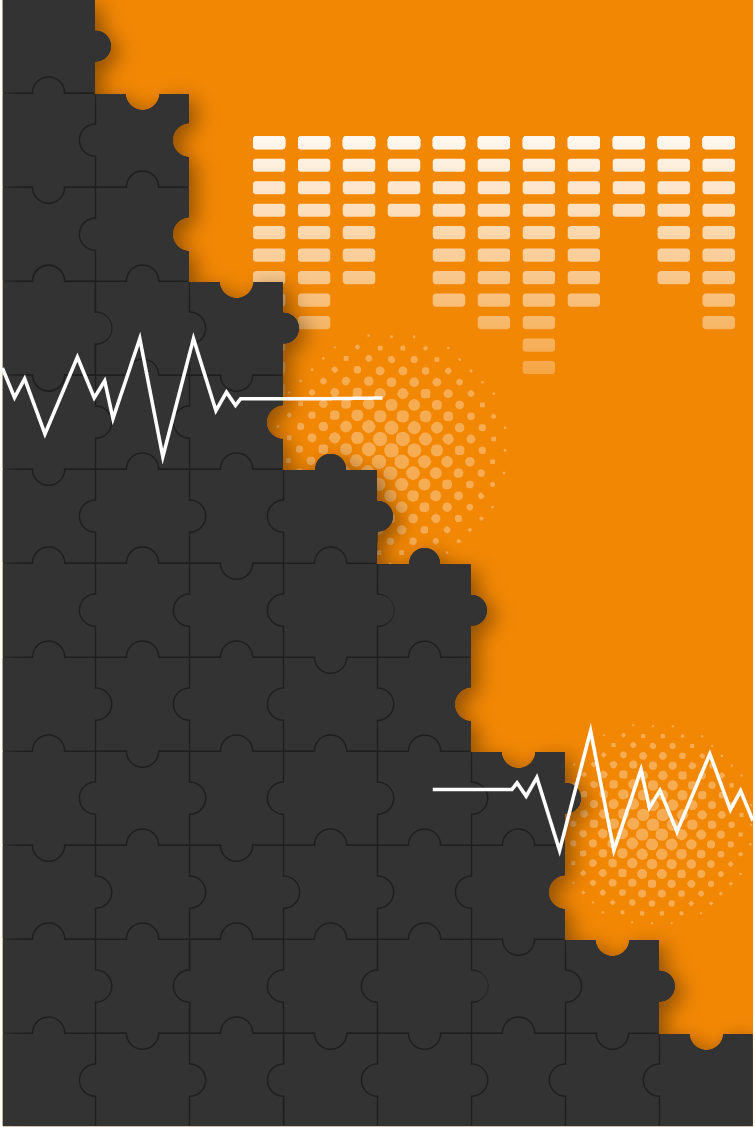
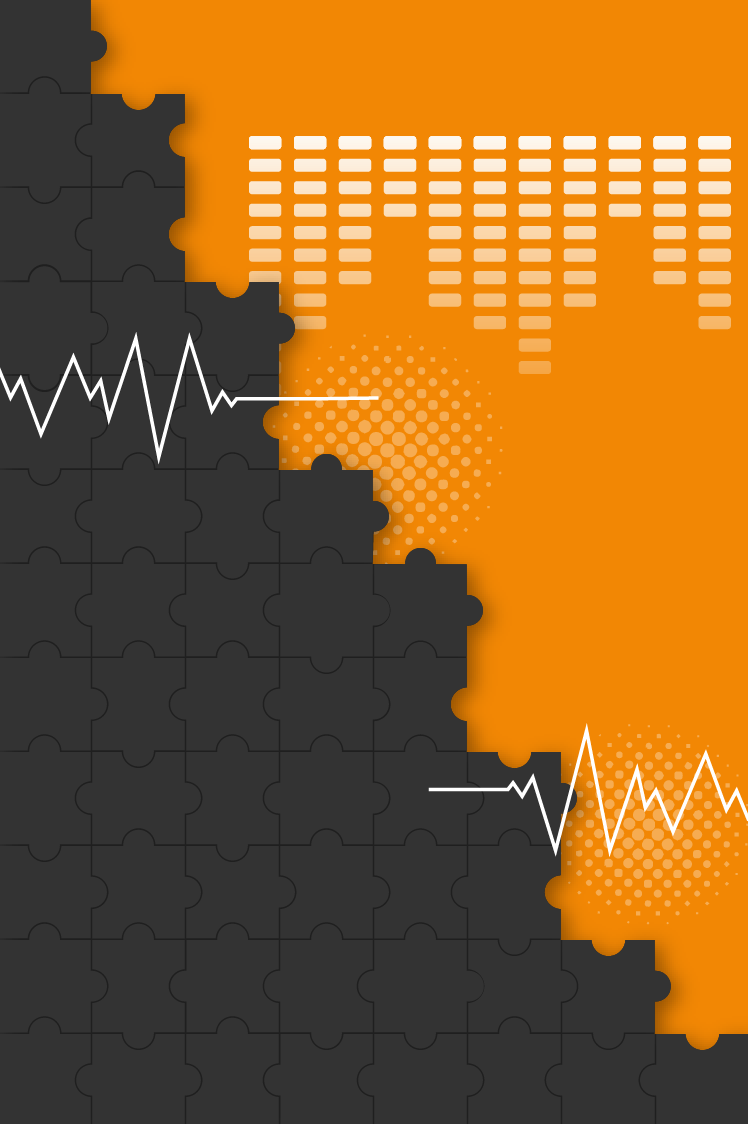
edit

diff --git a/css/style.css b/css/style.css
@@ -58,54 +58,54 @@
 }
 @keyframes glitch-before {
   0% {
-    -webkit-clip-path: polygon(0% 48.5132953734%, 100% 48.5132953734%, 100% 56.000898906%, 0% 56.000898906%);
-            clip-path: polygon(0% 48.5132953734%, 100% 48.5132953734%, 100% 56.000898906%, 0% 56.000898906%);
-    transform: translate(-2.6984226283%, 0.0966607877%);
+    -webkit-clip-path: polygon(0% 85.4700804428%, 100% 85.4700804428%, 100% 87.7288853122%, 0% 87.7288853122%);
+            clip-path: polygon(0% 85.4700804428%, 100% 85.4700804428%, 100% 87.7288853122%, 0% 87.7288853122%);
+    transform: translate(-7.4752772397%, 0.0172626599%);
   }
   2% {
-    -webkit-clip-path: polygon(0% 27.6698560717%, 100% 27.6698560717%, 100% 33.7634420985%, 0% 33.7634420985%);
-            clip-path: polygon(0% 27.6698560717%, 100% 27.6698560717%, 100% 33.7634420985%, 0% 33.7634420985%);
-    transform: translate(-6.7395385915%, -0.3907796595%);
+    -webkit-clip-path: polygon(0% 30.8379885253%, 100% 30.8379885253%, 100% 37.7432487405%, 0% 37.7432487405%);
+            clip-path: polygon(0% 30.8379885253%, 100% 30.8379885253%, 100% 37.7432487405%, 0% 37.7432487405%);
+    transform: translate(1.9486244871%, -0.1943745059%);
   }
   4% {
-    -webkit-clip-path: polygon(0% 59.3715511317%, 100% 59.3715511317%, 100% 67.302109355%, 0% 67.302109355%);
-            clip-path: polygon(0% 59.3715511317%, 100% 59.3715511317%, 100% 67.302109355%, 0% 67.302109355%);
-    transform: translate(1.4251708616%, -0.4163542658%);
+    -webkit-clip-path: polygon(0% 54.9104436772%, 100% 54.9104436772%, 100% 64.1120683191%, 0% 64.1120683191%);
+            clip-path: polygon(0% 54.9104436772%, 100% 54.9104436772%, 100% 64.1120683191%, 0% 64.1120683191%);
+    transform: translate(-4.9211001081%, -0.1985478899%);
   }
   6% {
-    -webkit-clip-path: polygon(0% 77.2568501324%, 100% 77.2568501324%, 100% 79.9818120081%, 0% 79.9818120081%);
-            clip-path: polygon(0% 77.2568501324%, 100% 77.2568501324%, 100% 79.9818120081%, 0% 79.9818120081%);
-    transform: translate(-3.9132620417%, 0.0983909263%);
+    -webkit-clip-path: polygon(0% 85.2446961339%, 100% 85.2446961339%, 100% 86.6951803275%, 0% 86.6951803275%);
+            clip-path: polygon(0% 85.2446961339%, 100% 85.2446961339%, 100% 86.6951803275%, 0% 86.6951803275%);
+    transform: translate(6.2770311444%, 0.0176607874%);
   }
   8% {
-    -webkit-clip-path: polygon(0% 51.6669447712%, 100% 51.6669447712%, 100% 56.147453657%, 0% 56.147453657%);
-            clip-path: polygon(0% 51.6669447712%, 100% 51.6669447712%, 100% 56.147453657%, 0% 56.147453657%);
-    transform: translate(4.0210708501%, 0.1451339752%);
+    -webkit-clip-path: polygon(0% 72.4895705548%, 100% 72.4895705548%, 100% 73.6566371%, 0% 73.6566371%);
+            clip-path: polygon(0% 72.4895705548%, 100% 72.4895705548%, 100% 73.6566371%, 0% 73.6566371%);
+    transform: translate(6.1705287121%, 0.2251958101%);
   }
   10% {
-    -webkit-clip-path: polygon(0% 14.2546030776%, 100% 14.2546030776%, 100% 17.6827197636%, 0% 17.6827197636%);
-            clip-path: polygon(0% 14.2546030776%, 100% 14.2546030776%, 100% 17.6827197636%, 0% 17.6827197636%);
-    transform: translate(1.2560996526%, 0.0242418457%);
+    -webkit-clip-path: polygon(0% 18.019738995%, 100% 18.019738995%, 100% 22.2105858336%, 0% 22.2105858336%);
+            clip-path: polygon(0% 18.019738995%, 100% 18.019738995%, 100% 22.2105858336%, 0% 22.2105858336%);
+    transform: translate(-2.6572318303%, -0.4809621519%);
   }
   12% {
-    -webkit-clip-path: polygon(0% 18.1782653108%, 100% 18.1782653108%, 100% 24.0074970665%, 0% 24.0074970665%);
-            clip-path: polygon(0% 18.1782653108%, 100% 18.1782653108%, 100% 24.0074970665%, 0% 24.0074970665%);
-    transform: translate(6.732849727%, -0.3843006494%);
+    -webkit-clip-path: polygon(0% 69.0767589426%, 100% 69.0767589426%, 100% 74.7938411427%, 0% 74.7938411427%);
+            clip-path: polygon(0% 69.0767589426%, 100% 69.0767589426%, 100% 74.7938411427%, 0% 74.7938411427%);
+    transform: translate(-4.9085017208%, 0.1999266168%);
   }
   14% {
-    -webkit-clip-path: polygon(0% 52.8096096246%, 100% 52.8096096246%, 100% 57.9917581893%, 0% 57.9917581893%);
-            clip-path: polygon(0% 52.8096096246%, 100% 52.8096096246%, 100% 57.9917581893%, 0% 57.9917581893%);
-    transform: translate(5.6329884148%, -0.3491286587%);
+    -webkit-clip-path: polygon(0% 18.2749167026%, 100% 18.2749167026%, 100% 20.736879039%, 0% 20.736879039%);
+            clip-path: polygon(0% 18.2749167026%, 100% 18.2749167026%, 100% 20.736879039%, 0% 20.736879039%);
+    transform: translate(1.5209646391%, -0.2626151382%);
   }
   16% {
-    -webkit-clip-path: polygon(0% 36.1640160413%, 100% 36.1640160413%, 100% 40.7832967801%, 0% 40.7832967801%);
-            clip-path: polygon(0% 36.1640160413%, 100% 36.1640160413%, 100% 40.7832967801%, 0% 40.7832967801%);
-    transform: translate(2.4179604538%, 0.4235869852%);
+    -webkit-clip-path: polygon(0% 44.2793961079%, 100% 44.2793961079%, 100% 51.2080864474%, 0% 51.2080864474%);
+            clip-path: polygon(0% 44.2793961079%, 100% 44.2793961079%, 100% 51.2080864474%, 0% 51.2080864474%);
+    transform: translate(2.9705419156%, -0.2630670986%);
   }
   18% {
-    -webkit-clip-path: polygon(0% 71.610866249%, 100% 71.610866249%, 100% 76.1917764935%, 0% 76.1917764935%);
-            clip-path: polygon(0% 71.610866249%, 100% 71.610866249%, 100% 76.1917764935%, 0% 76.1917764935%);
-    transform: translate(-3.7889691812%, 0.3863912543%);
+    -webkit-clip-path: polygon(0% 89.4431350735%, 100% 89.4431350735%, 100% 92.3998708784%, 0% 92.3998708784%);
+            clip-path: polygon(0% 89.4431350735%, 100% 89.4431350735%, 100% 92.3998708784%, 0% 92.3998708784%);
+    transform: translate(-1.6563135628%, -0.4737122858%);
   }
   20%, 100% {
     -webkit-clip-path: none;
@@ -120,54 +120,54 @@
 }
 @keyframes glitch-after {
   0% {
-    -webkit-clip-path: polygon(0% 41.7411692949%, 100% 41.7411692949%, 100% 45.6443712186%, 0% 45.6443712186%);
-            clip-path: polygon(0% 41.7411692949%, 100% 41.7411692949%, 100% 45.6443712186%, 0% 45.6443712186%);
-    transform: translate(-4.6875609099%, 0.2173127913%);
+    -webkit-clip-path: polygon(0% 66.9383440952%, 100% 66.9383440952%, 100% 74.2777830836%, 0% 74.2777830836%);
+            clip-path: polygon(0% 66.9383440952%, 100% 66.9383440952%, 100% 74.2777830836%, 0% 74.2777830836%);
+    transform: translate(-3.8876604142%, -0.1927899442%);
   }
   2% {
-    -webkit-clip-path: polygon(0% 77.6882998496%, 100% 77.6882998496%, 100% 87.5955067753%, 0% 87.5955067753%);
-            clip-path: polygon(0% 77.6882998496%, 100% 77.6882998496%, 100% 87.5955067753%, 0% 87.5955067753%);
-    transform: translate(-5.022745028%, -0.0972401249%);
+    -webkit-clip-path: polygon(0% 24.7956521502%, 100% 24.7956521502%, 100% 30.8209740796%, 0% 30.8209740796%);
+            clip-path: polygon(0% 24.7956521502%, 100% 24.7956521502%, 100% 30.8209740796%, 0% 30.8209740796%);
+    transform: translate(3.3462972491%, 0.4746360495%);
   }
   4% {
-    -webkit-clip-path: polygon(0% 88.1450882649%, 100% 88.1450882649%, 100% 97.5682174676%, 0% 97.5682174676%);
-            clip-path: polygon(0% 88.1450882649%, 100% 88.1450882649%, 100% 97.5682174676%, 0% 97.5682174676%);
-    transform: translate(1.2578401644%, 0.1671430848%);
+    -webkit-clip-path: polygon(0% 82.7626882607%, 100% 82.7626882607%, 100% 89.7333227906%, 0% 89.7333227906%);
+            clip-path: polygon(0% 82.7626882607%, 100% 82.7626882607%, 100% 89.7333227906%, 0% 89.7333227906%);
+    transform: translate(-3.5640010516%, 0.3387441903%);
   }
   6% {
-    -webkit-clip-path: polygon(0% 80.7498427767%, 100% 80.7498427767%, 100% 87.3093880982%, 0% 87.3093880982%);
-            clip-path: polygon(0% 80.7498427767%, 100% 80.7498427767%, 100% 87.3093880982%, 0% 87.3093880982%);
-    transform: translate(-7.6761007403%, -0.0922424852%);
+    -webkit-clip-path: polygon(0% 34.0625303523%, 100% 34.0625303523%, 100% 37.8907351142%, 0% 37.8907351142%);
+            clip-path: polygon(0% 34.0625303523%, 100% 34.0625303523%, 100% 37.8907351142%, 0% 37.8907351142%);
+    transform: translate(7.682393629%, -0.0420646612%);
   }
   8% {
-    -webkit-clip-path: polygon(0% 84.1689796156%, 100% 84.1689796156%, 100% 92.2469583166%, 0% 92.2469583166%);
-            clip-path: polygon(0% 84.1689796156%, 100% 84.1689796156%, 100% 92.2469583166%, 0% 92.2469583166%);
-    transform: translate(-7.3261028755%, 0.2471096123%);
+    -webkit-clip-path: polygon(0% 37.4354166573%, 100% 37.4354166573%, 100% 40.1285323287%, 0% 40.1285323287%);
+            clip-path: polygon(0% 37.4354166573%, 100% 37.4354166573%, 100% 40.1285323287%, 0% 40.1285323287%);
+    transform: translate(-3.4134176732%, 0.4416750112%);
   }
   10% {
-    -webkit-clip-path: polygon(0% 66.0453940043%, 100% 66.0453940043%, 100% 73.1992898631%, 0% 73.1992898631%);
-            clip-path: polygon(0% 66.0453940043%, 100% 66.0453940043%, 100% 73.1992898631%, 0% 73.1992898631%);
-    transform: translate(0.4644290486%, 0.0092174607%);
+    -webkit-clip-path: polygon(0% 39.1256923275%, 100% 39.1256923275%, 100% 46.6406848475%, 0% 46.6406848475%);
+            clip-path: polygon(0% 39.1256923275%, 100% 39.1256923275%, 100% 46.6406848475%, 0% 46.6406848475%);
+    transform: translate(5.1721935634%, 0.1830702747%);
   }
   12% {
-    -webkit-clip-path: polygon(0% 35.6299106951%, 100% 35.6299106951%, 100% 36.8040299309%, 0% 36.8040299309%);
-            clip-path: polygon(0% 35.6299106951%, 100% 35.6299106951%, 100% 36.8040299309%, 0% 36.8040299309%);
-    transform: translate(-3.6117131143%, 0.1259674891%);
+    -webkit-clip-path: polygon(0% 7.3914214314%, 100% 7.3914214314%, 100% 8.7851060832%, 0% 8.7851060832%);
+            clip-path: polygon(0% 7.3914214314%, 100% 7.3914214314%, 100% 8.7851060832%, 0% 8.7851060832%);
+    transform: translate(6.3303489349%, 0.1750895095%);
   }
   14% {
-    -webkit-clip-path: polygon(0% 30.7880011128%, 100% 30.7880011128%, 100% 37.7579840136%, 0% 37.7579840136%);
-            clip-path: polygon(0% 30.7880011128%, 100% 30.7880011128%, 100% 37.7579840136%, 0% 37.7579840136%);
-    transform: translate(-0.846115975%, -0.0319931896%);
+    -webkit-clip-path: polygon(0% 57.7358357362%, 100% 57.7358357362%, 100% 61.5029798767%, 0% 61.5029798767%);
+            clip-path: polygon(0% 57.7358357362%, 100% 57.7358357362%, 100% 61.5029798767%, 0% 61.5029798767%);
+    transform: translate(6.6335544637%, -0.2528926601%);
   }
   16% {
-    -webkit-clip-path: polygon(0% 63.9908412922%, 100% 63.9908412922%, 100% 69.2815825691%, 0% 69.2815825691%);
-            clip-path: polygon(0% 63.9908412922%, 100% 63.9908412922%, 100% 69.2815825691%, 0% 69.2815825691%);
-    transform: translate(-5.1658365629%, 0.2525032274%);
+    -webkit-clip-path: polygon(0% 6.5878248528%, 100% 6.5878248528%, 100% 9.4022567667%, 0% 9.4022567667%);
+            clip-path: polygon(0% 6.5878248528%, 100% 6.5878248528%, 100% 9.4022567667%, 0% 9.4022567667%);
+    transform: translate(4.9157713617%, -0.245821746%);
   }
   18% {
-    -webkit-clip-path: polygon(0% 64.0489020682%, 100% 64.0489020682%, 100% 69.8098197919%, 0% 69.8098197919%);
-            clip-path: polygon(0% 64.0489020682%, 100% 64.0489020682%, 100% 69.8098197919%, 0% 69.8098197919%);
-    transform: translate(6.110253934%, -0.4566180195%);
+    -webkit-clip-path: polygon(0% 87.8101851512%, 100% 87.8101851512%, 100% 91.9957577701%, 0% 91.9957577701%);
+            clip-path: polygon(0% 87.8101851512%, 100% 87.8101851512%, 100% 91.9957577701%, 0% 91.9957577701%);
+    transform: translate(-0.5262664199%, 0.2583328407%);
   }
   20%, 100% {
     -webkit-clip-path: none;
@@ -190,34 +190,34 @@
 }
 @keyframes rgb-shift-r {
   0% {
-    transform: translate(-1.6576333103%, -0.0659884615%);
+    transform: translate(1.0297877505%, -0.2724063858%);
   }
   2% {
-    transform: translate(-0.7885130803%, -0.1075424818%);
+    transform: translate(-0.9421521573%, -0.3488876376%);
   }
   4% {
-    transform: translate(-0.7282602925%, -0.0473197368%);
+    transform: translate(0.2996382531%, 0.0407113135%);
   }
   6% {
-    transform: translate(-1.0600351716%, -0.3461691846%);
+    transform: translate(1.7575006061%, 0.3299305059%);
   }
   8% {
-    transform: translate(0.3719656701%, -0.1610453248%);
+    transform: translate(-0.2092817601%, -0.056035776%);
   }
   10% {
-    transform: translate(1.9406720348%, -0.3561610514%);
+    transform: translate(1.3987941048%, -0.1281697792%);
   }
   12% {
-    transform: translate(-0.5545666136%, -0.1152433035%);
+    transform: translate(0.2261152431%, 0.2918789517%);
   }
   14% {
-    transform: translate(1.4491710109%, 0.183787831%);
+    transform: translate(0.0448907728%, -0.4426576762%);
   }
   16% {
-    transform: translate(1.3530367113%, 0.4238801697%);
+    transform: translate(1.4324418751%, -0.1323184319%);
   }
   18% {
-    transform: translate(-1.3071174207%, 0.0832490127%);
+    transform: translate(-1.1654879136%, 0.2615911559%);
   }
   20%, 100% {
     transform: none;
@@ -231,34 +231,34 @@
 }
 @keyframes rgb-shift-g {
   0% {
-    transform: translate(0.1077390586%, -0.1151383244%);
+    transform: translate(0.3346071637%, -0.2340122732%);
   }
   2% {
-    transform: translate(1.2067843254%, -0.4775009553%);
+    transform: translate(0.8346793132%, -0.0062757064%);
   }
   4% {
-    transform: translate(0.4993187618%, -0.0183695697%);
+    transform: translate(1.2815337648%, -0.4259314842%);
   }
   6% {
-    transform: translate(1.1368537778%, -0.2718178584%);
+    transform: translate(-0.4323045525%, 0.2099133446%);
   }
   8% {
-    transform: translate(0.4405333672%, 0.1994695763%);
+    transform: translate(-0.611750824%, -0.4895362506%);
   }
   10% {
-    transform: translate(1.6260007754%, 0.2681650667%);
+    transform: translate(0.805139365%, 0.162351739%);
   }
   12% {
-    transform: translate(0.5062110663%, -0.1484175172%);
+    transform: translate(-0.0083296793%, 0.1238600357%);
   }
   14% {
-    transform: translate(-0.3572206041%, -0.4531321261%);
+    transform: translate(-0.7049652596%, 0.2695233867%);
   }
   16% {
-    transform: translate(1.3813675543%, 0.326266408%);
+    transform: translate(-0.8701630266%, -0.0688359873%);
   }
   18% {
-    transform: translate(1.8024086816%, 0.2909543415%);
+    transform: translate(1.6196893482%, -0.4050851383%);
   }
   20%, 100% {
     transform: none;
@@ -272,34 +272,34 @@
 }
 @keyframes rgb-shift-b {
   0% {
-    transform: translate(0.5594507196%, -0.1116941166%);
+    transform: translate(1.4885856295%, -0.2167890521%);
   }
   2% {
-    transform: translate(0.2284285095%, 0.1649910546%);
+    transform: translate(-0.7054215574%, 0.4354370782%);
   }
   4% {
-    transform: translate(0.2000039377%, -0.4333102443%);
+    transform: translate(0.9354248168%, 0.0569583002%);
   }
   6% {
-    transform: translate(-0.6961575473%, 0.2538453949%);
+    transform: translate(-1.277609774%, -0.2024536224%);
   }
   8% {
-    transform: translate(-1.1811353417%, 0.2552231801%);
+    transform: translate(1.8887398745%, -0.316751766%);
   }
   10% {
-    transform: translate(0.2792975397%, -0.3176372656%);
+    transform: translate(-1.9682117328%, -0.1726778153%);
   }
   12% {
-    transform: translate(1.404511643%, 0.4738621777%);
+    transform: translate(0.3882516792%, -0.4632767725%);
   }
   14% {
-    transform: translate(0.5220787558%, 0.0426122932%);
+    transform: translate(-1.0967604361%, -0.4851407765%);
   }
   16% {
-    transform: translate(0.6736195099%, 0.1552475124%);
+    transform: translate(-0.2030004095%, -0.2191124898%);
   }
   18% {
-    transform: translate(1.4677123154%, -0.3385091633%);
+    transform: translate(0.6282332481%, 0.3796005319%);
   }
   20%, 100% {
     transform: none;
@@ -464,24 +464,24 @@
     left: 56.3%;
   }
   .top .top_w {
-    bottom: 9.3%;
-    left: 81.6%;
-    width: 5.5vw;
+    bottom: 2.5%;
+    left: 77.6%;
+    width: 15.5vw;
   }
   .top .top_a {
-    bottom: 0.5%;
-    left: 68.7%;
-    width: 3.5vw;
+    bottom: -6.5%;
+    left: 68.9%;
+    width: 15vw;
   }
   .top .top_s {
-    bottom: 0.3%;
-    left: 80.7%;
-    width: 3vw;
+    bottom: -7%;
+    left: 81.5%;
+    width: 15vw;
   }
   .top .top_d {
-    bottom: 0.3%;
-    left: 93.3%;
-    width: 3.5vw;
+    bottom: -6.7%;
+    left: 94%;
+    width: 15vw;
   }
 }
 /*works*/

diff --git a/css/style.scss b/css/style.scss
@@ -351,24 +351,24 @@ header{
             left: 56.3%;
         }
         .top_w{
-            bottom: 9.3%;
-            left: 81.6%;
-            width: 5.5vw;
+            bottom: 2.5%;
+            left: 77.6%;
+            width: 15.5vw;
         }
         .top_a{
-            bottom: 0.5%;
-            left: 68.7%;
-            width: 3.5vw;
+            bottom: -6.5%;
+            left: 68.9%;
+            width: 15vw;
         }
         .top_s{
-            bottom: 0.3%;
-            left: 80.7%;
-            width: 3vw;
+            bottom: -7%;
+            left: 81.5%;
+            width: 15vw;
         }
         .top_d{
-            bottom: 0.3%;
-            left: 93.3%;
-            width: 3.5vw;
+            bottom: -6.7%;
+            left: 94%;
+            width: 15vw;
         }
     }
 }

diff --git a/css/common.css b/css/common.css
@@ -94,7 +94,7 @@ header .header_img {
     cursor: pointer;
   }
   .header_inner .sp_btn span {
-    position: relative;
+    position: absolute;
     top: 9px;
     display: block;
     width: 30px;
@@ -110,6 +110,7 @@ header .header_img {
     position: absolute;
     width: 30px;
     height: 2px;
+    left: -0.5px;
     border-radius: 1px;
     background-color: #f28704;
     border: solid 0.3px #fff;
